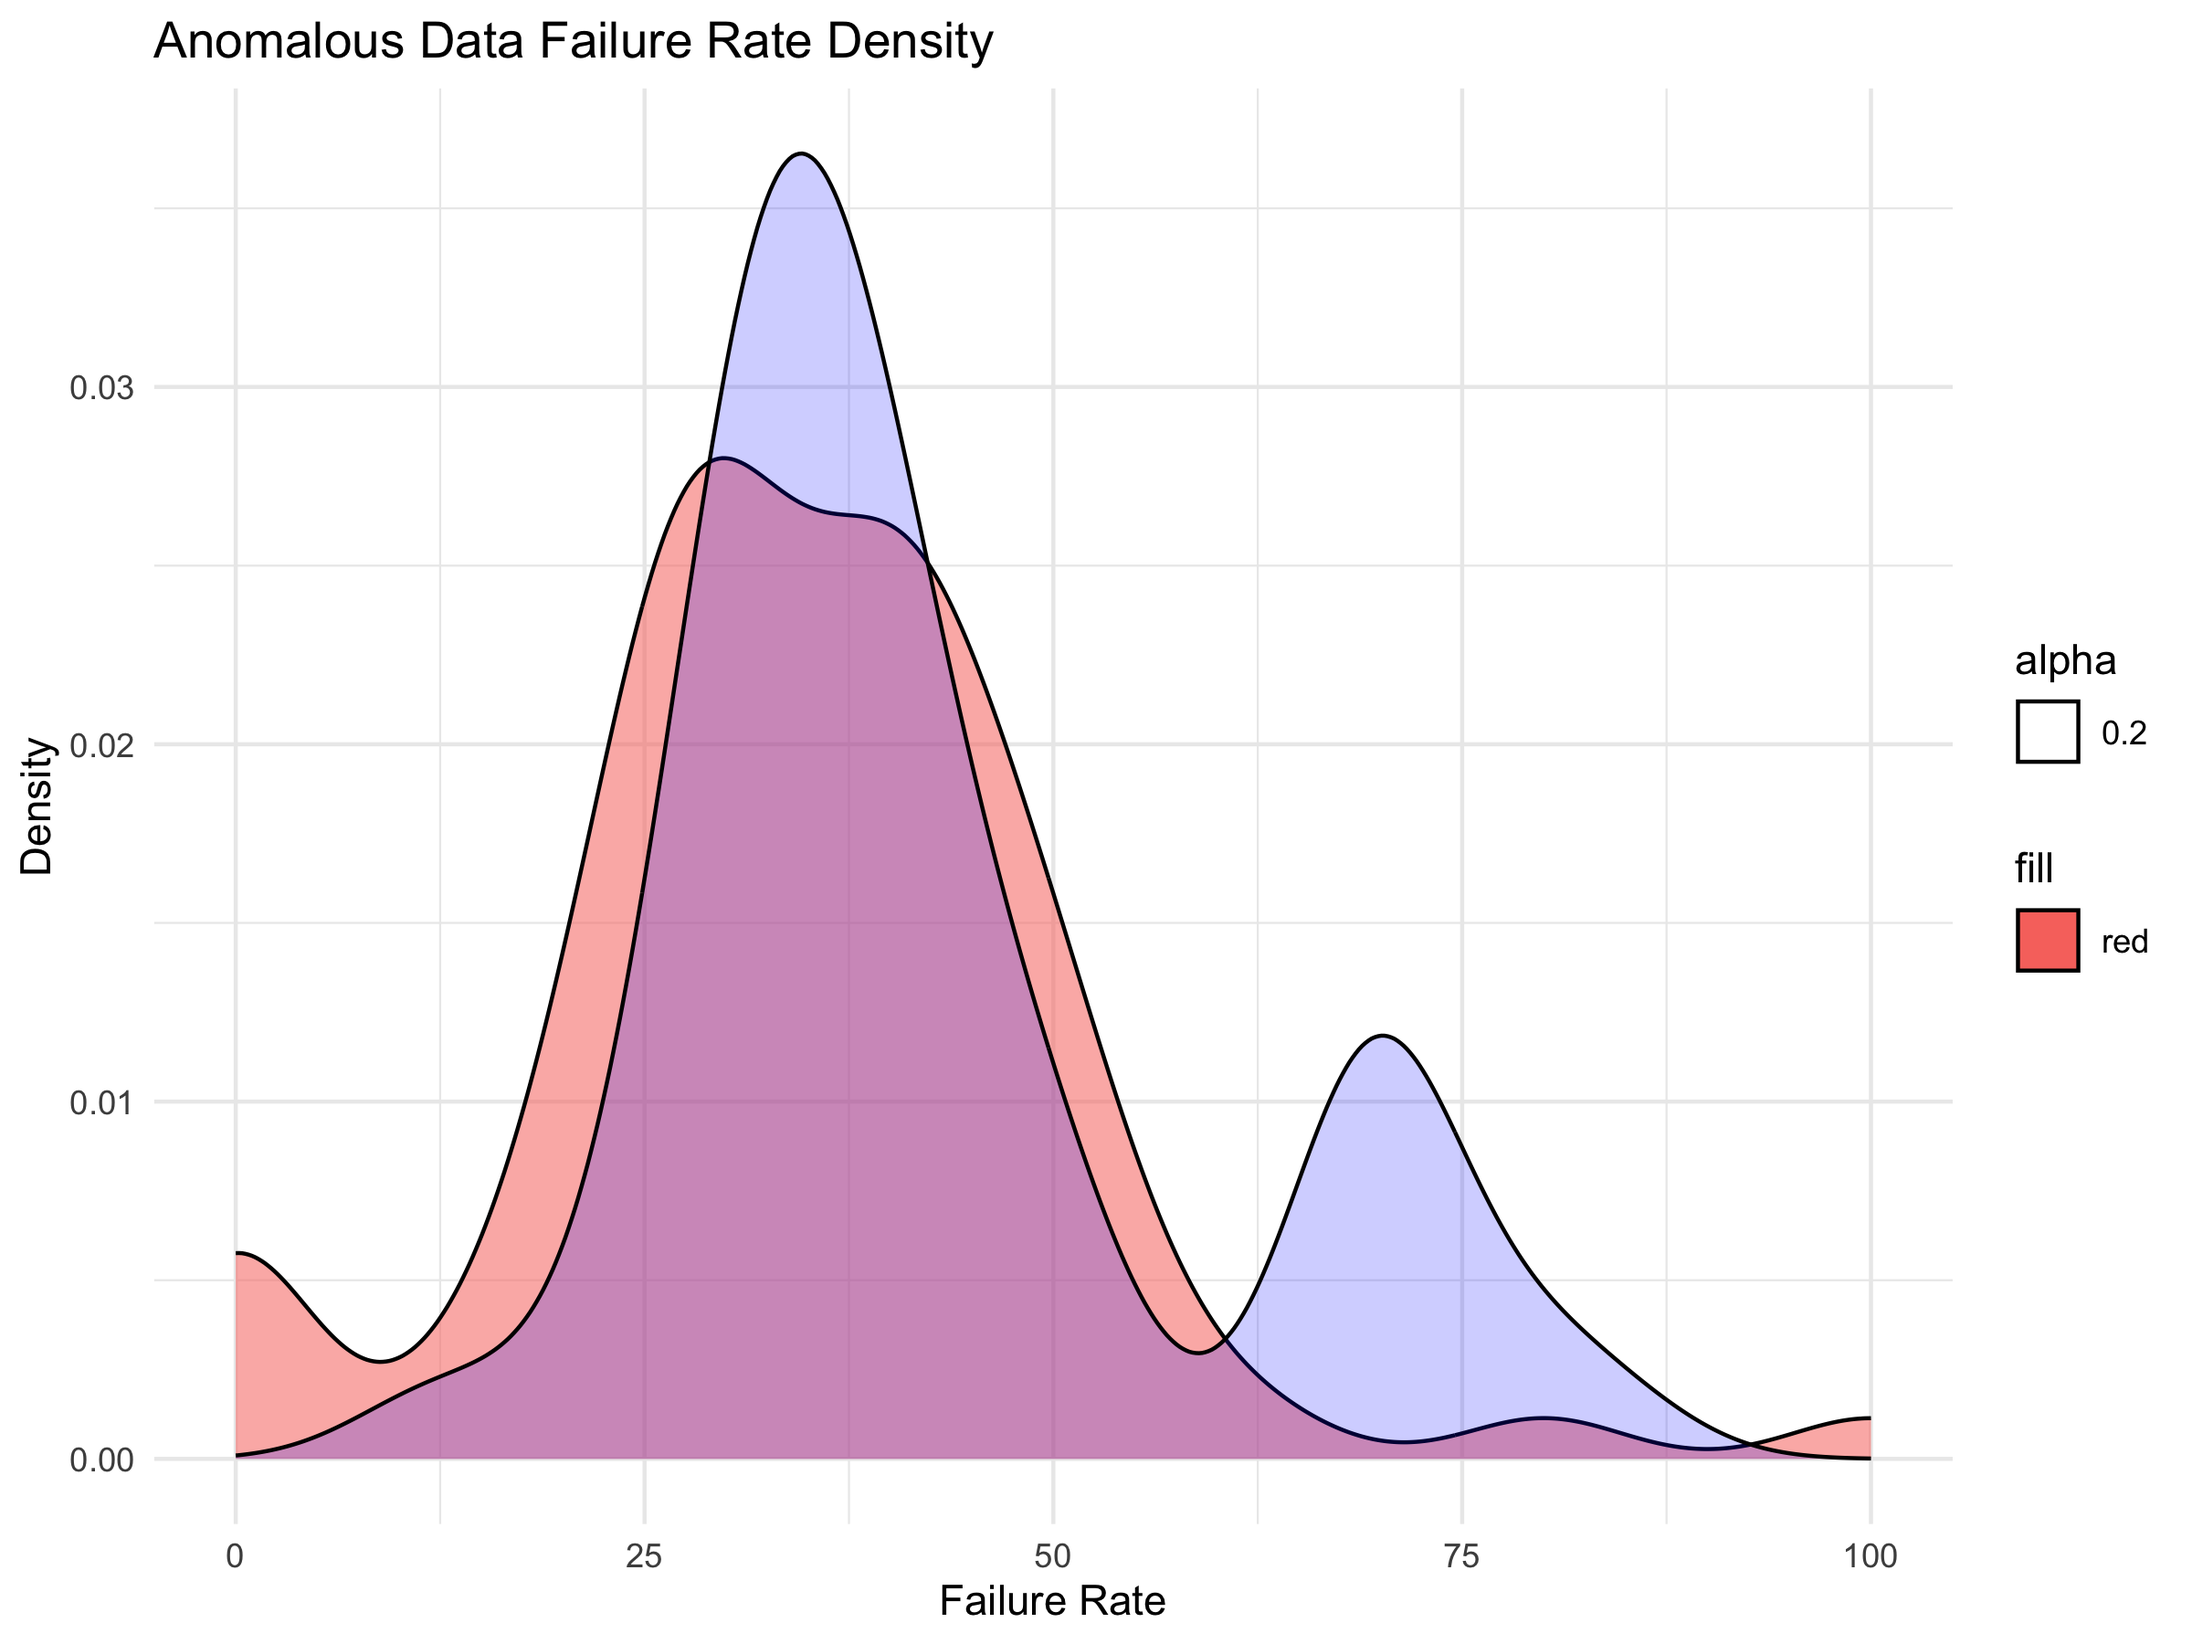
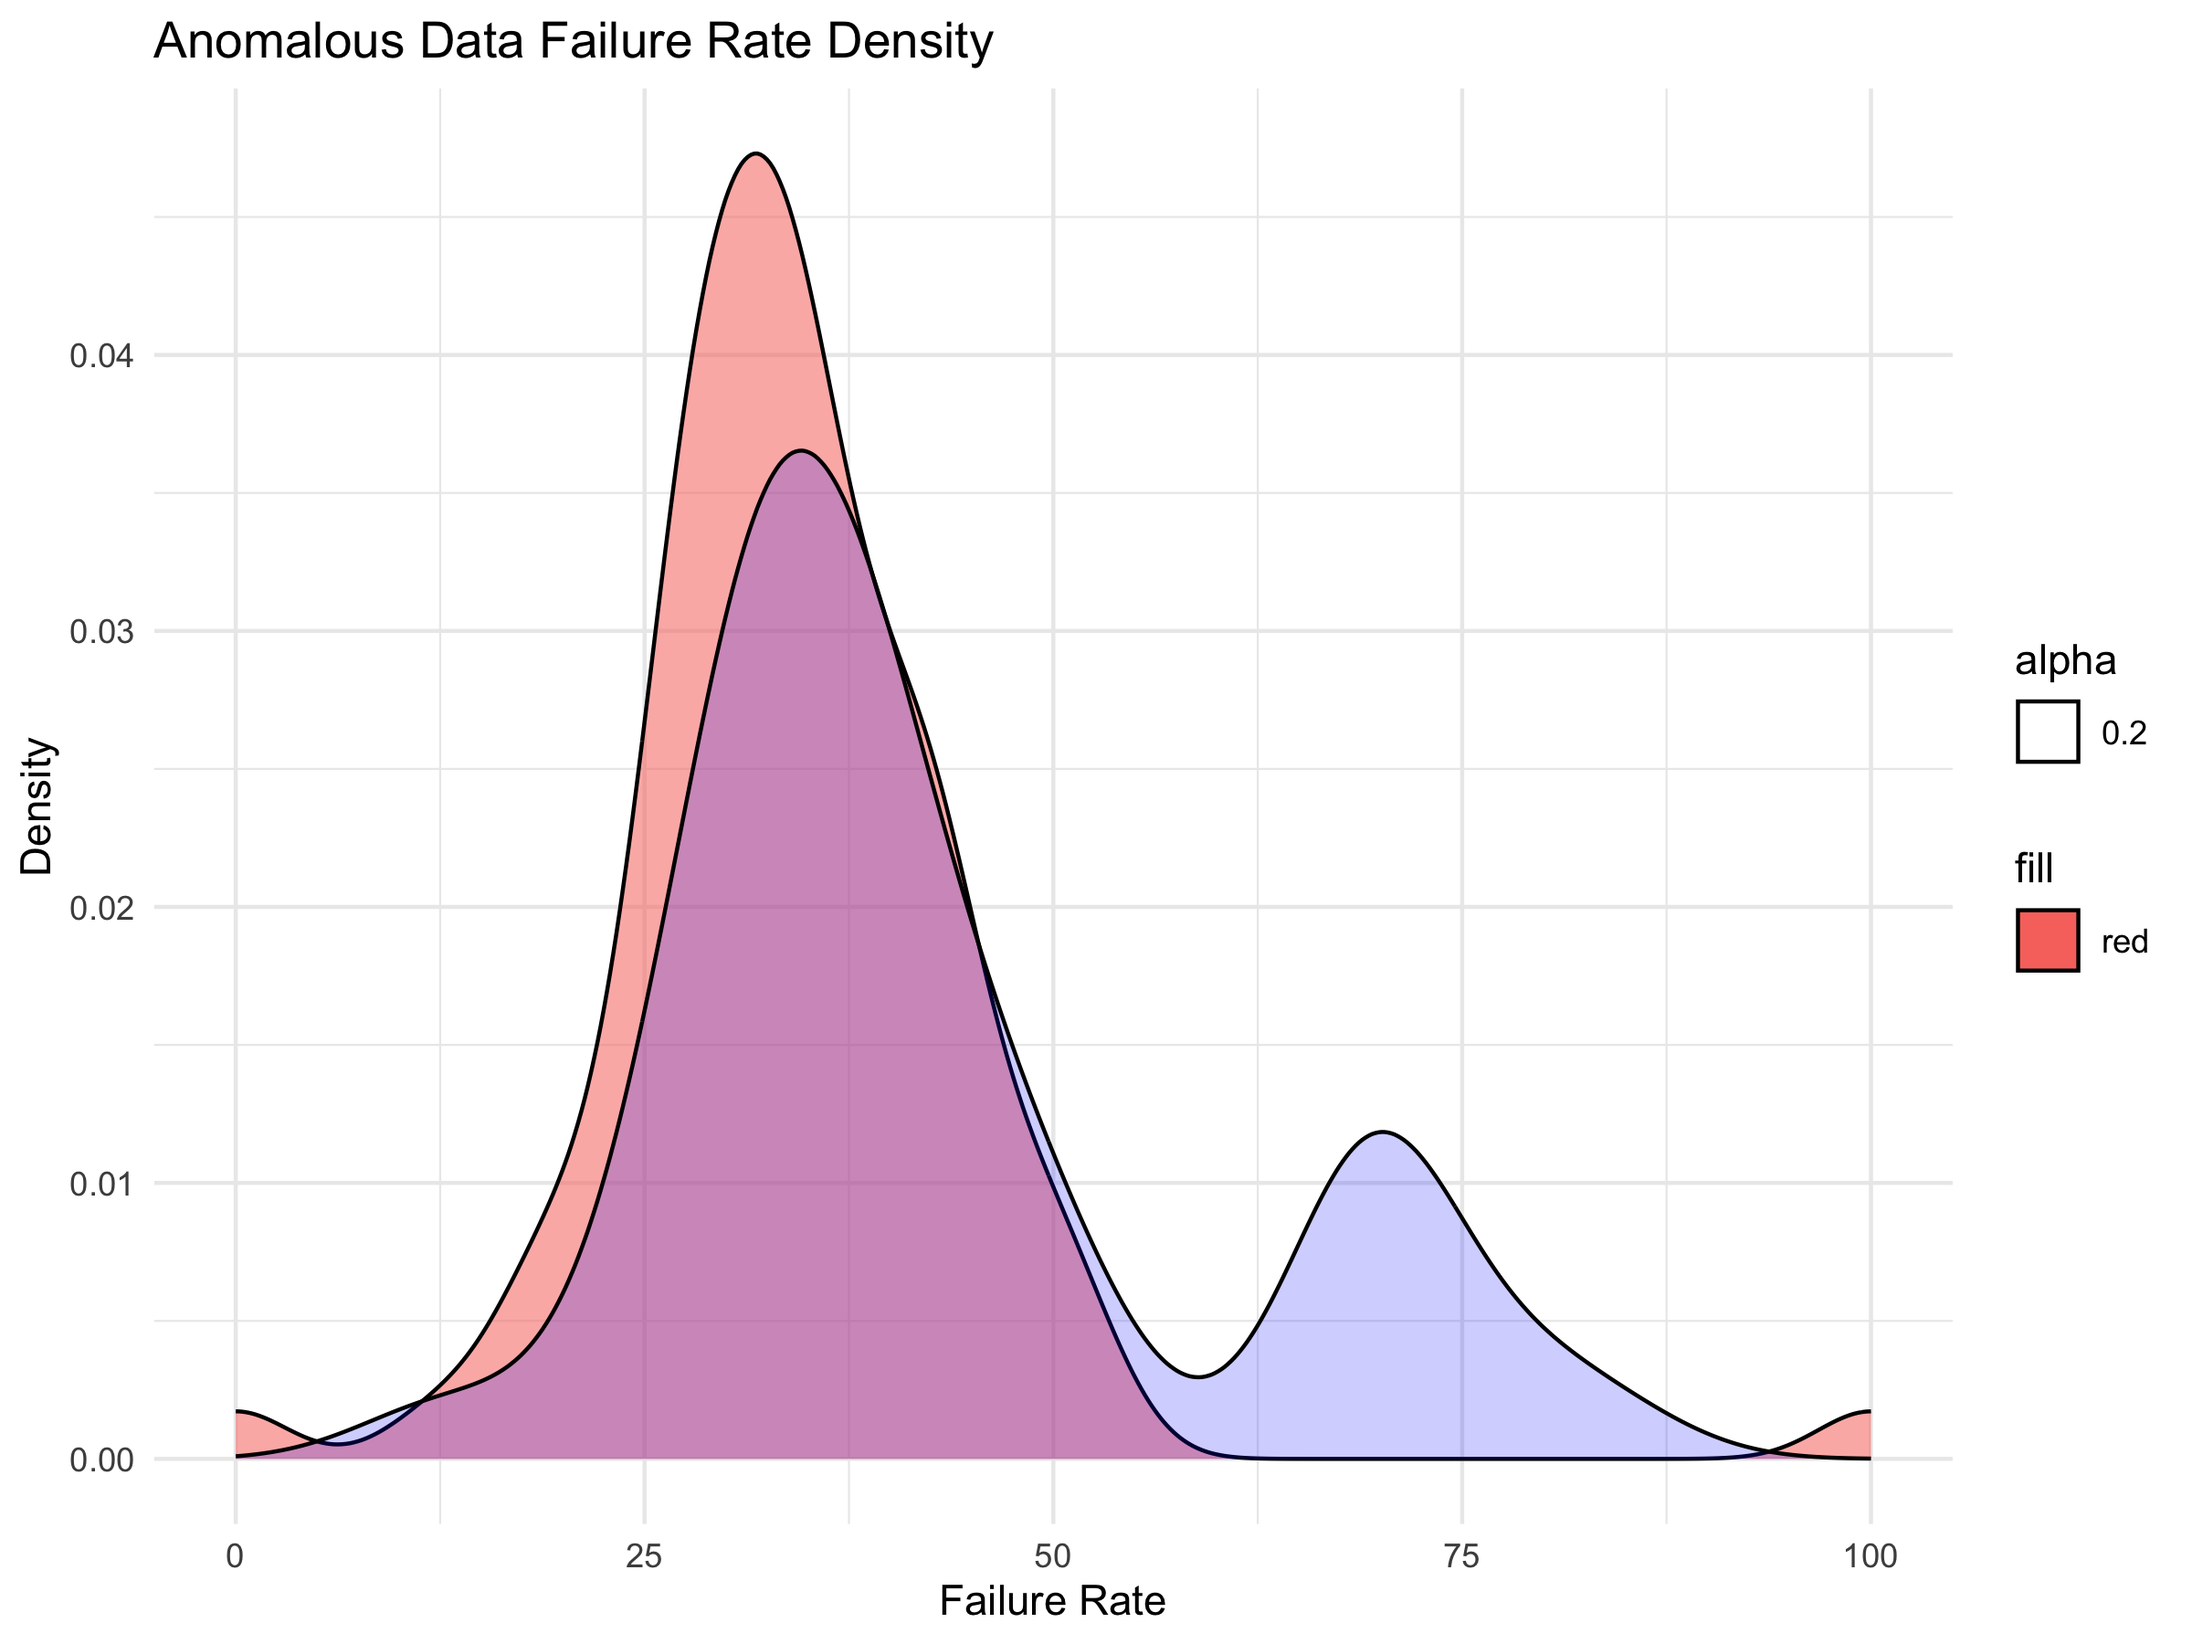
there was a way to detect it, you need to find it

diff --git a/Anamoly_Detection/ReadMe.md b/Anamoly_Detection/ReadMe.md
@@ -668,7 +668,13 @@ s <- aggregate(paytm_subset$s, by = list(paytm_subset$hr), sum)
 f <- t[, 2] - s[, 2]
 
 proportion_subset <- f / t[, 2] * 100
+
+transactions_subset <- t
+
+cat("totall transactions within all anamolous observations",sum(transactions_subset[,2]))
 ```
+
+    ## totall transactions within all anamolous observations 12348
 
 ###### normal data
 
@@ -684,30 +690,48 @@ t <- aggregate(paytm_compliment$t, by = list(paytm_compliment$hr), sum)
 s <- aggregate(paytm_compliment$s, by = list(paytm_compliment$hr), sum)
 f <- t[, 2] - s[, 2]
 
-proportion_c <- f / t[, 2] * 100
+proportion_compliment <- f / t[, 2] * 100
+
+transactions_compliment <- t
+
+(mean(proportion_compliment))
 ```
+
+    ## [1] 34.63494
 
 ###### normal data but equal number of observations selected at random as the anomalous subset
 
 ``` r
-set.seed(42)  
-paytm_compliment_sample <- paytm_compliment[sample(nrow(paytm_compliment), 552), ]
+paytm_compliment_sample <- paytm_compliment[sample(nrow(paytm_compliment), 1200), ]
 
 t <- aggregate(paytm_compliment_sample$t, by = list(paytm_compliment_sample$hr), sum)
+
 s <- aggregate(paytm_compliment_sample$s, by = list(paytm_compliment_sample$hr), sum)
+
 f <- t[, 2] - s[, 2]
 
-proportion_c_sample <- f / t[, 2] * 100
+proportion_compliment_sample <- f / t[, 2] * 100
+
+compliment_sample_sizes <- t
+(sum(compliment_sample_sizes[,2]))
 ```
+
+    ## [1] 12635
+
+``` r
+cat("totall transactions in sample of observations from normal data of equal size to number of anamoly observations.",sum(compliment_sample_sizes[,2]))
+```
+
+    ## totall transactions in sample of observations from normal data of equal size to number of anamoly observations. 12635
 
 ``` r
 hours <- seq(1, 72, 1)
-wide <- as.data.frame(cbind(hours, proportion_c, proportion_subset,proportion_c_sample))
+wide <- as.data.frame(cbind(hours, proportion_compliment, proportion_subset,proportion_compliment_sample))
 
 long <- melt(
   data = wide, 
   id.vars = c("hours"), 
-  measured.vars = c("proportion_c", "proportion_subset","proportion_c_sample"), 
+  measured.vars = c("proportion_compliment", "proportion_subset","proportion_compliment_sample"), 
   variable.name = "percentage_failure"
 )
 ```
@@ -719,7 +743,8 @@ ggplot(data = long, aes(x = hours, y = value, group = percentage_failure, color 
     title = "Smoothed Failure Percentage Curve", 
     ylab = "Percentage"
   ) + 
-  scale_color_discrete(labels = c("Non-Anomalous Data Entire Set", "Anomalous Data","Non-Anomalous Data Sample"))
+  scale_color_discrete(labels = c("Non-Anomalous Data Entire Set", "Anomalous Data","Non-Anomalous Data Sample")) +
+  geom_hline(yintercept = 34.63494, linetype = "dashed", color = "red")
 ```
 
 <div align="center">
@@ -728,9 +753,21 @@ ggplot(data = long, aes(x = hours, y = value, group = percentage_failure, color 
 
 </div>
 
-In comparison of the anomalous observations to the normal data, there
-isn’t any clear indication that something was wrong until around hour
-40.
+``` r
+cat("totall transactions in sample of observations from normal data of equal size to number of anamoly observations.",sum(compliment_sample_sizes[,2]))
+```
+
+    ## totall transactions in sample of observations from normal data of equal size to number of anamoly observations. 12635
+
+To make a fair comparison of the anomalous data and normal data before
+the anomaly event, the blue line is the failure rate of the normal data
+from 552 randomly selected observations within it, such that it of equal
+sample size to the anomalous data comprised of an equal number of
+observations.
+
+Despite the transaction count within the normal data sample size
+controlled being greater than the totall transactions of the anomalous
+data, it’s variance and mean is consistently
 
 ``` r
 ggplot(data = long, aes(x = hours, y = value, group = percentage_failure, color = percentage_failure)) + 
@@ -772,7 +809,7 @@ distribution.
 library(plotly)
 
 ggplot(data = wide, aes(proportion_subset)) + 
-  geom_density(data=wide,aes(proportion_c_sample,fill="red",alpha=0.20)) + 
+  geom_density(data=wide,aes(proportion_compliment_sample,fill="red",alpha=0.20)) + 
   geom_density(fill = "blue", alpha = 0.20) + 
   theme_minimal() + 
   labs(
@@ -788,145 +825,6 @@ ggplot(data = wide, aes(proportion_subset)) +
 
 </div>
 
-From all of these plots it’s evident that there was no indication that
-failure rate of the observations with the combination of variables in
-which the anomaly occurred was any different from the rest of the data.
-Something happened which caused the payment failure rate to spike as it
-did.
-
-If the anomaly could not have been predicted, when is the soonest we
-could had known it was happening so we could start implementing damage
-control.
-
-This is a EWMA control chart comparing the anomaly data to the normal
-data without accounting for the difference of sample sizes.
-
-The anomaly data breaches control limits indicating that something is
-wrong before the anomaly event occurs.
-
-nah we need to make a vector which collects the number of samples of
-each hour of which each hour failure rate was produced
-
-``` r
-# Load necessary library
-library(qcc)
-
-# Load the dataset
-
-
-# Extract the relevant columns for normal and anomaly data
-proportion_c <- wide$proportion_c
-proportion_subset <- wide$proportion_subset
-
-# Create EWMA chart for monitoring the anomaly data against the normal data
-ewma_chart <- ewma(
-  data = proportion_subset, 
-  center = mean(proportion_c, na.rm = TRUE), 
-  std.dev = sd(proportion_c, na.rm = TRUE),
-  lambda = 0.2, 
-  nsigmas = 3, 
-  data.name = "Proportion Subset Monitoring"
-)
-```
-
-<div align="center">
-
-<img src="ReadMe_files/figure-gfm/unnamed-chunk-23-1.png" width="70%">
-
-</div>
-
-``` r
-# Print summary and plot the chart
-summary(ewma_chart)
-```
-
-    ## 
-    ## Call:
-    ## ewma(data = proportion_subset, center = mean(proportion_c, na.rm = TRUE),     std.dev = sd(proportion_c, na.rm = TRUE), lambda = 0.2, nsigmas = 3,     data.name = "Proportion Subset Monitoring")
-    ## 
-    ## ewma chart for Proportion Subset Monitoring 
-    ## 
-    ## Summary of group statistics:
-    ##     Min.  1st Qu.   Median     Mean  3rd Qu.     Max. 
-    ## 11.11111 31.79047 37.16882 42.78413 48.94601 85.00000 
-    ## 
-    ## Group sample size:  1
-    ## Number of groups:  72
-    ## Center of group statistics:  34.63494
-    ## Standard deviation:  3.172232 
-    ## 
-    ## Smoothing parameter: 0.2 
-    ## Control limits:
-    ##            LCL      UCL
-    ## [1,]  32.73161 36.53828
-    ## [2,]  32.19748 37.07241
-    ## ...                    
-    ## [72,] 31.46271 37.80718
-
-``` r
-plot(ewma_chart)
-```
-
-However, if you account for sample size and produce the same chart
-comparing a sample of the normal data of equal size to the anomaly data,
-the normal data also breaches normal limits.
-
-``` r
-# Load necessary library
-library(qcc)
-
-# Load the dataset
-
-
-# Extract the relevant columns for normal and anomaly data
-proportion_c <- wide$proportion_c
-proportion_subset <- wide$proportion_subset
-
-# Create EWMA chart for monitoring the anomaly data against the normal data
-ewma_chart <- ewma(
-  data = proportion_c_sample, 
-  center = mean(proportion_c, na.rm = TRUE), 
-  std.dev = sd(proportion_c, na.rm = TRUE),
-  lambda = 0.2, 
-  nsigmas = 3, 
-  data.name = "Proportion Subset Monitoring"
-)
-```
-
-<div align="center">
-
-<img src="ReadMe_files/figure-gfm/unnamed-chunk-24-1.png" width="70%">
-
-</div>
-
-``` r
-# Print summary and plot the chart
-summary(ewma_chart)
-```
-
-    ## 
-    ## Call:
-    ## ewma(data = proportion_c_sample, center = mean(proportion_c,     na.rm = TRUE), std.dev = sd(proportion_c, na.rm = TRUE),     lambda = 0.2, nsigmas = 3, data.name = "Proportion Subset Monitoring")
-    ## 
-    ## ewma chart for Proportion Subset Monitoring 
-    ## 
-    ## Summary of group statistics:
-    ##      Min.   1st Qu.    Median      Mean   3rd Qu.      Max. 
-    ##   0.00000  26.17216  33.33333  35.22170  43.12937 100.00000 
-    ## 
-    ## Group sample size:  1
-    ## Number of groups:  71
-    ## Center of group statistics:  34.63494
-    ## Standard deviation:  3.172232 
-    ## 
-    ## Smoothing parameter: 0.2 
-    ## Control limits:
-    ##            LCL      UCL
-    ## [1,]  32.73161 36.53828
-    ## [2,]  32.19748 37.07241
-    ## ...                    
-    ## [71,] 31.46271 37.80718
-
-``` r
-plot(ewma_chart)
-```
+2)  how could the issue have been detected earlier to prevent merchants
+    and customers from discovering it. A dashboard visualizing metrics
+    like success rate and volume across dimensions is then requested.
